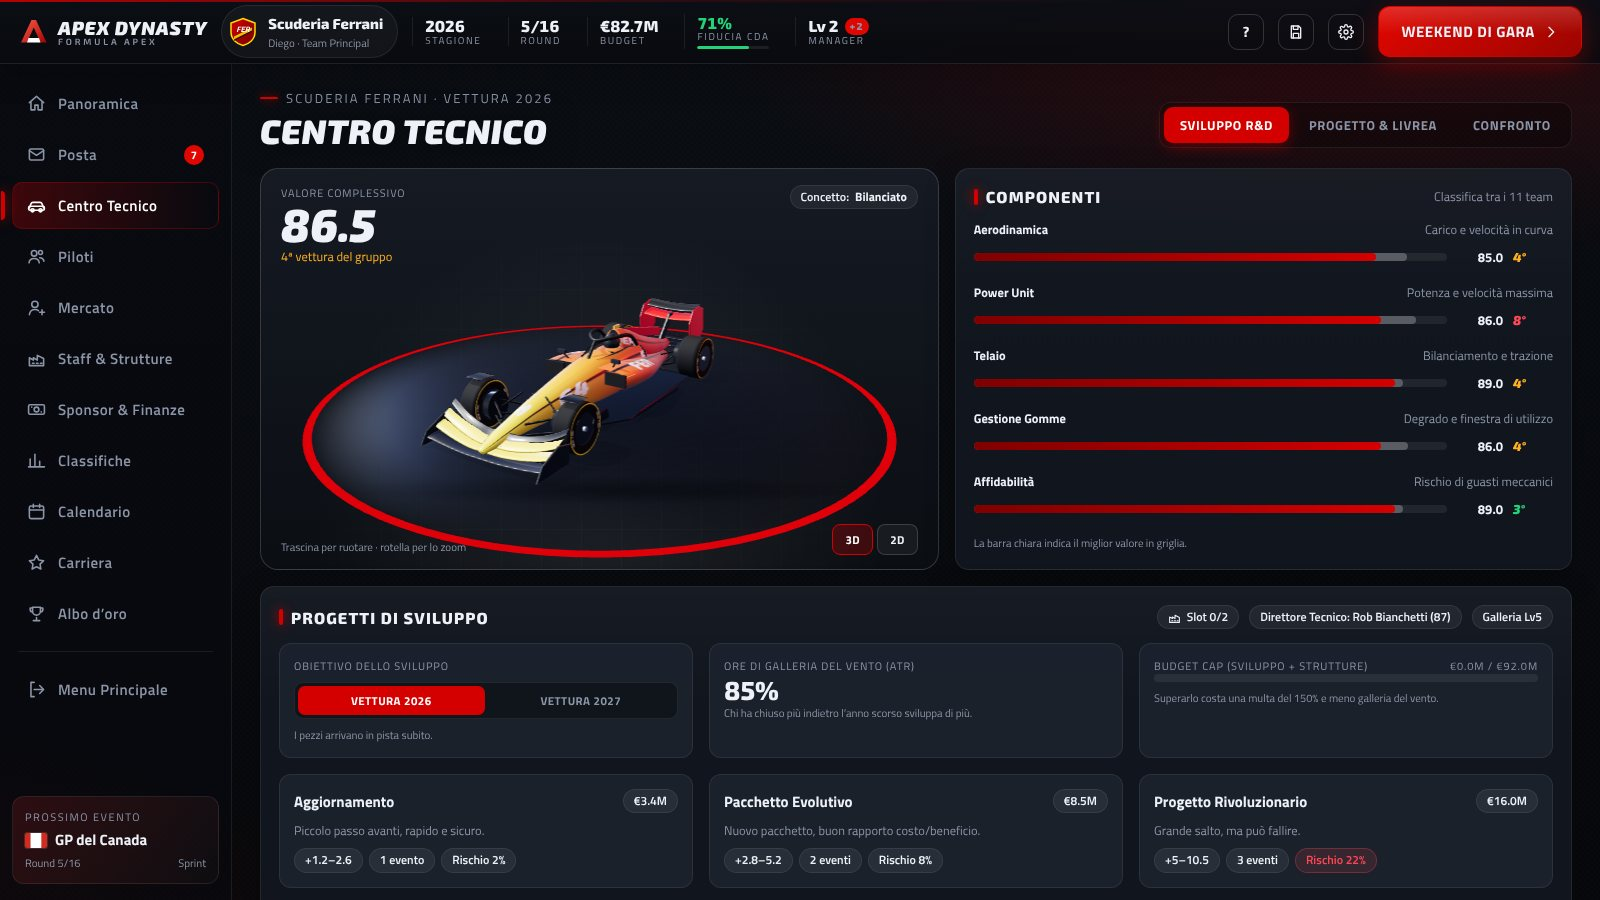
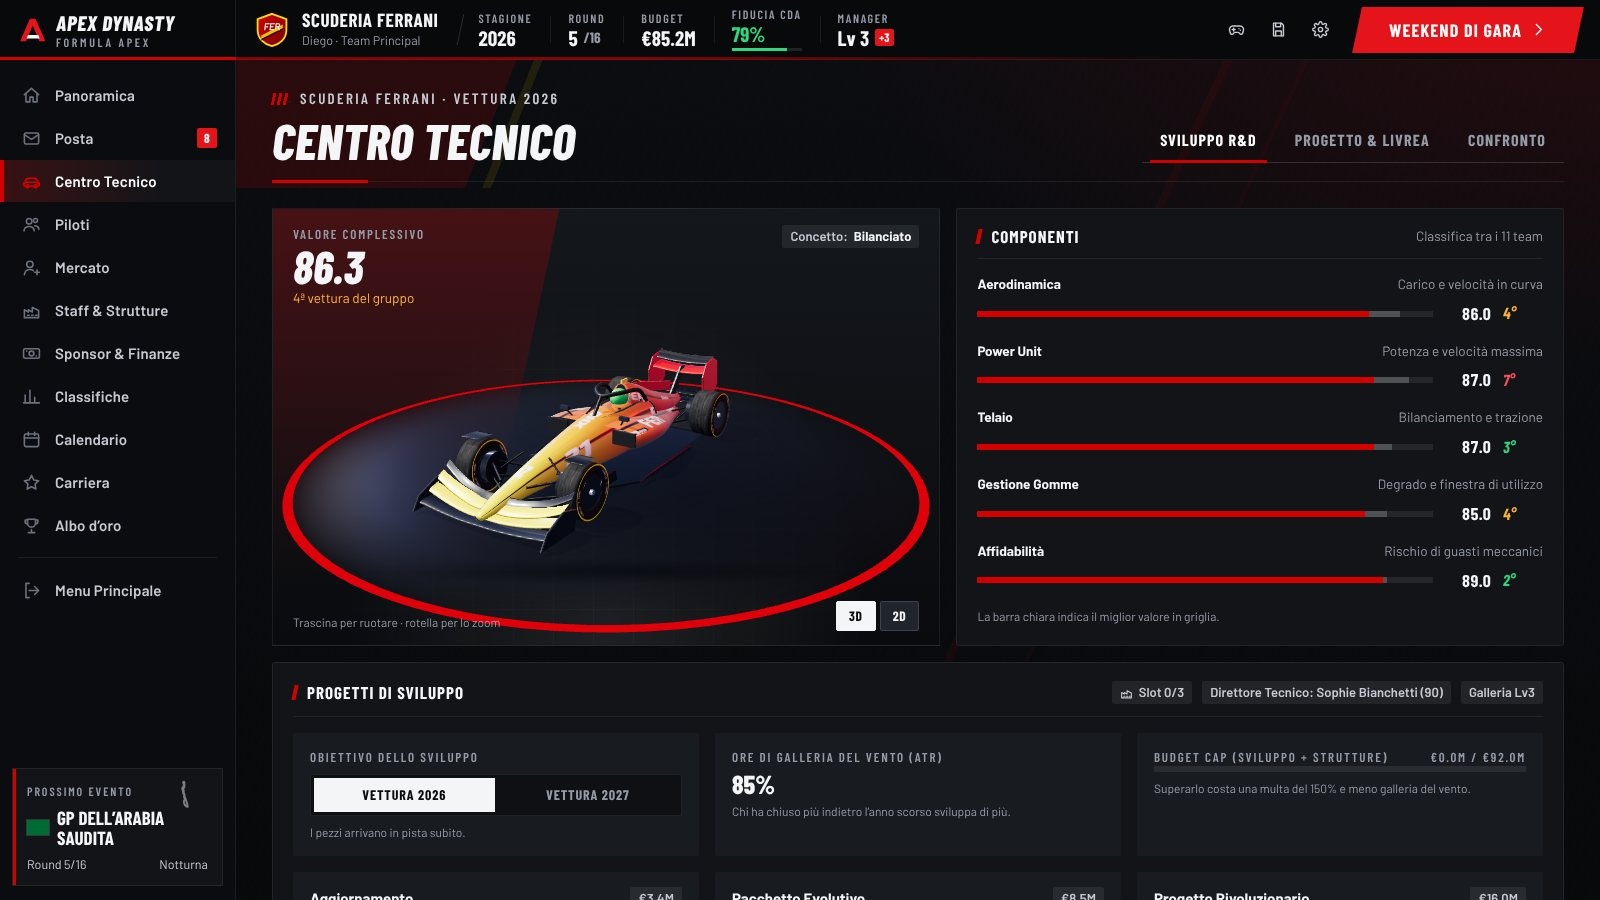
v3.6.0: interfaccia nuova, Scontro Totale con campionato e nuovi eventi, grafica delle gare migliorata
Claude-Session: https://claude.ai/code/session_016m2WYSifcgJTzz2tKjj853

diff --git a/site-src/index.html b/site-src/index.html
@@ -86,13 +86,21 @@ footer { border-top:1px solid var(--line); padding:40px 0; color:var(--muted); f
     <h1 class="title">Apex<span>Dynasty</span></h1>
     <p class="lead">Diventa Team Principal e ingegnere di pista. <b>Circuiti reali</b>, fisica del giro, degrado gomme realistico e gare in <b>3D</b> o sulla mappa 2D. Costruisci una dinastia in <b>Formula</b>, <b>Rally</b> ed <b>Endurance</b>.</p>
     <div class="cta"><a class="btn red" href="#download">⬇ Scarica gratis</a><a class="btn" href="play/">▶ Gioca nel browser</a></div>
-    <div class="badges"><span class="badge">macOS Apple Silicon</span><span class="badge">macOS Intel</span><span class="badge">Windows 10/11</span><span class="badge">Linux</span><span class="badge">Browser</span><span class="badge">v3.5: nuova modalità di guida Scontro Totale · filtri visivi · grafica migliorata</span></div>
+    <div class="badges"><span class="badge">macOS Apple Silicon</span><span class="badge">macOS Intel</span><span class="badge">Windows 10/11</span><span class="badge">Linux</span><span class="badge">Browser</span><span class="badge">v3.6: interfaccia nuova · Scontro Totale con campionato e 6 eventi · grafica delle gare migliorata</span></div>
   </div>
   <div class="hero-shot"><img src="shots/race.jpg" alt="Gara in diretta"></div>
 </div></header>
 
 <section id="novita" style="padding-top:40px"><div class="wrap">
-  <h2 class="sec-title">Versione 3.5 · Scontro Totale</h2>
+  <h2 class="sec-title">Versione 3.6</h2>
+  <p class="sec-sub">Un'interfaccia da gioco vero, Scontro Totale più profondo e circuiti ancora più vivi.</p>
+  <div class="features">
+    <div class="feat"><div class="ic">🎮</div><b>Interfaccia nuova</b><p>Menu in stile console, hub con l'evento in primo piano, colori della squadra, torre dei tempi da diretta TV.</p></div>
+    <div class="feat"><div class="ic">🏁</div><b>Campionato Rottami</b><p>Sei prove di Scontro Totale con punti per posizione, demolizioni e giro veloce, più due nuovi eventi.</p></div>
+    <div class="feat"><div class="ic">⚙</div><b>Guida e IA</b><p>Cambio con marce, trazione diversa per ogni auto, IA con personalità che sorpassa e sperona di proposito.</p></div>
+    <div class="feat"><div class="ic">🏟</div><b>Circuiti vivi</b><p>Asfalto gommato, cartelloni, paddock, folla che fa la ola, freni incandescenti e scintille.</p></div>
+  </div>
+  <h2 class="sec-title" style="margin-top:50px">Versione 3.5 · Scontro Totale</h2>
   <p class="sec-sub">Non solo manager: prendi il volante e distruggi tutto.</p>
   <div class="features">
     <div class="feat"><div class="ic">💥</div><b>Corse a contatto</b><p>Fisica vera, salti, derapate, lamiere che si piegano, paraurti e cofani che volano via, fumo e fuoco.</p></div>
@@ -101,7 +109,7 @@ footer { border-top:1px solid var(--line); padding:40px 0; color:var(--muted); f
     <div class="feat"><div class="ic">🏟</div><b>Arena derby</b><p>Ultima auto che si muove vince. Più una cava con salti, una figura a otto e una pineta.</p></div>
     <div class="feat"><div class="ic">🎮</div><b>Tastiera e gamepad</b><p>Tre telecamere, filtri immagine e una freccia per non perdere mai la tua auto.</p></div>
   </div>
-  <div class="gallery" style="margin-top:20px"><figure><img src="shots/derby.jpg" alt="" loading="lazy"><figcaption>Cava di Pietrarossa</figcaption></figure><figure><img src="shots/derby-otto.jpg" alt="" loading="lazy"><figcaption>Otto Volante</figcaption></figure><figure><img src="shots/derby-arena.jpg" alt="" loading="lazy"><figcaption>Arena Rottami</figcaption></figure><figure><img src="shots/derby-menu.jpg" alt="" loading="lazy"><figcaption>Scelta di evento e auto</figcaption></figure></div>
+  <div class="gallery" style="margin-top:20px"><figure><img src="shots/derby.jpg" alt="" loading="lazy"><figcaption>Fattoria Pantano</figcaption></figure><figure><img src="shots/derby-otto.jpg" alt="" loading="lazy"><figcaption>Otto Volante</figcaption></figure><figure><img src="shots/derby-arena.jpg" alt="" loading="lazy"><figcaption>Arena Rottami</figcaption></figure><figure><img src="shots/derby-menu.jpg" alt="" loading="lazy"><figcaption>Scelta di evento e auto</figcaption></figure></div>
   <h2 class="sec-title" style="margin-top:50px">Versione 3.4</h2>
   <p class="sec-sub">Più realismo in pista, più profondità nella gestione, un'interfaccia da gioco premium.</p>
   <div class="features">

diff --git a/README.md b/README.md
@@ -18,6 +18,12 @@
 - **Progressione**: livelli manager, albero di abilità, obiettivi stagionali, trofei
 - **Gara Rapida** e **garage 3D**
 
+## Novità della versione 3.6
+
+- **Interfaccia rifatta da gioco vero**: nuovo carattere condensato, menu in stile console con l'auto 3D protagonista, hub con l'evento in primo piano, colori della squadra, icone SVG al posto delle emoji, torre dei tempi da diretta TV, transizioni e suoni
+- **Scontro Totale molto più profondo**: cambio con marce, trazione diversa per ogni auto, derapate controllabili, atterraggi, 4 telecamere e sguardo indietro, vibrazione del gamepad; IA con personalità che sorpassa, sperona di proposito e non si incastra; scontri classificati (T-bone, frontale, tamponamento…), vetri che si rompono, ruote che si staccano, rallentatore, replay del botto; 2 nuovi eventi (Fattoria Pantano, Stadio Ferrovecchio notturno) e il Campionato Rottami su 6 prove
+- **Grafica delle gare**: asfalto con traiettoria gommata e rattoppi, cartelloni, paddock e motorhome, folla che fa la ola, facciate nei cittadini, livree con sponsor, freni incandescenti, scintille dal fondo, regia TV con visuale sempre libera
+
 ## Novità della versione 3.5
 
 - **Nuova modalità "Scontro Totale": guidi tu.** Corse a contatto e demolition derby con fisica vera (Rapier): sospensioni, derapate, salti, auto che si ammaccano, pezzi che volano via, fumo e fuoco, oggetti travolgibili (barili, gomme, casse, fieno, transenne), nitro che si ricarica con gli scontri e i salti, IA che sperona, 4 eventi (cava con salti, figura a otto con incrocio, pineta, arena derby), 4 auto da sbloccare con i crediti, tastiera e gamepad
